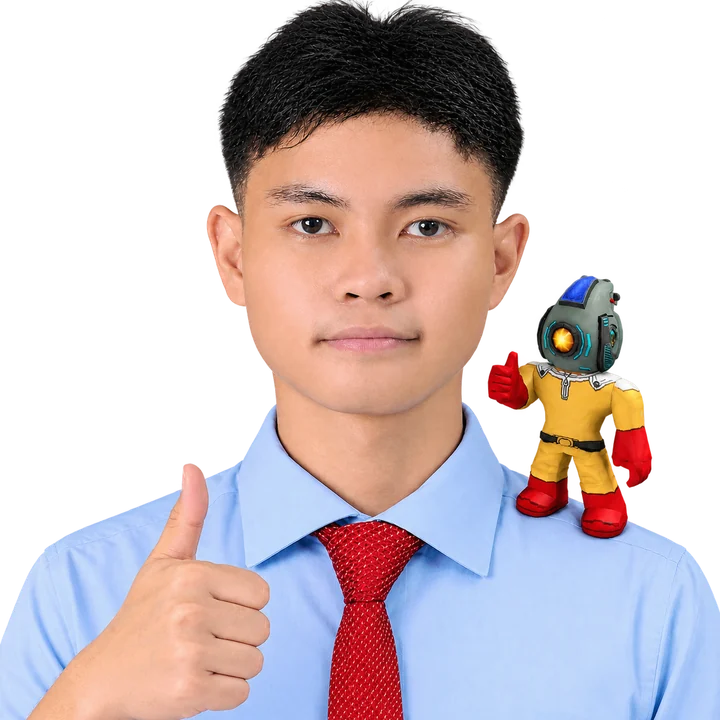
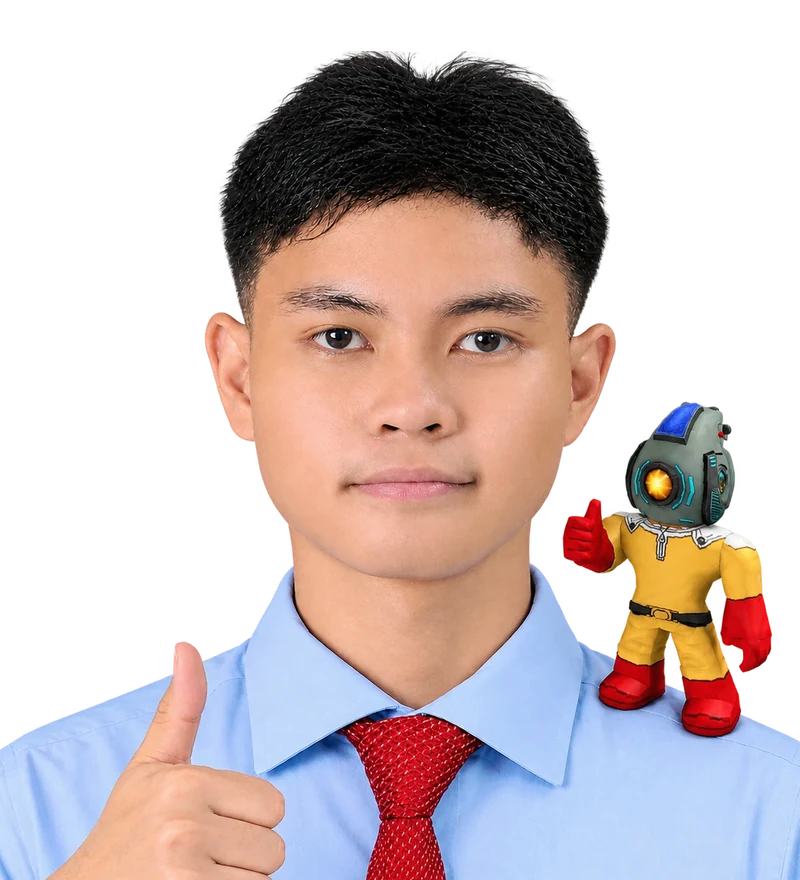
Hero: match the reference card with the new portrait photo
Sharper 800x880 cut-out cropped tighter like the mockup, narrower card
aligned to the top of the hero, and a project count beside Work.

diff --git a/src/styles.css b/src/styles.css
@@ -207,13 +207,14 @@ sup { font-size: .45em; vertical-align: super; line-height: 0; }
   transition: transform .3s var(--ease);
 }
 .site-nav a:hover::after { transform: scaleX(1); }
+.nav-count { color: var(--muted); }
 .header-cta { min-width: 8.75rem; justify-content: flex-start; }
 
 /* ---------- Hero ---------- */
 .hero {
   display: grid;
-  grid-template-columns: 1fr minmax(15rem, 18rem);
-  align-items: end;
+  grid-template-columns: 1fr minmax(14rem, 15rem);
+  align-items: start;                          /* card top lines up with the hero label */
   gap: 2rem;
   padding-top: 1.8rem;
   padding-bottom: 3rem;
@@ -240,10 +241,11 @@ sup { font-size: .45em; vertical-align: super; line-height: 0; }
   border-radius: 2px;
   justify-self: end;
   width: 100%;
+  margin-top: -.25rem;                         /* sits a touch above the label, like the mockup */
 }
 .portrait-frame {
   margin: 0 0 .85rem;
-  aspect-ratio: 1 / 1.05;                     /* slightly taller than square, like the mockup */
+  aspect-ratio: 1 / 1.1;                      /* taller than square, like the mockup */
   overflow: hidden;
   /* dark studio backdrop behind the transparent cut-out photo */
   background:
@@ -251,7 +253,7 @@ sup { font-size: .45em; vertical-align: super; line-height: 0; }
 }
 .portrait-frame img {
   display: block; width: 100%; height: 100%;
-  object-fit: cover; object-position: 50% 20%; /* keep the face and shoulder figure in frame */
+  object-fit: cover; object-position: 50% 0;   /* photo is pre-cropped 1 : 1.1 to fill the frame */
   filter: saturate(.92) contrast(1.03);
   transition: transform .8s var(--ease), filter .8s var(--ease);
 }
@@ -263,7 +265,7 @@ sup { font-size: .45em; vertical-align: super; line-height: 0; }
 }
 .portrait-status {
   display: flex; align-items: center; gap: .45rem;
-  color: var(--accent-text); font-size: .8125rem;
+  color: var(--accent-text); font-size: .75rem;
 }
 .portrait-status .status-dot { width: .5rem; height: .5rem; flex: none; }
 .status-dot {

diff --git a/src/index.html b/src/index.html
@@ -39,7 +39,7 @@
       <a class="logo" href="#top" aria-label="KPR, back to top"><span class="logo-mark" aria-hidden="true"></span></a>
       <p class="label header-tagline">Digital design / Development</p>
       <nav class="site-nav" aria-label="Main">
-        <a href="#work">Work</a>
+        <a href="#work">Work <span class="nav-count">[05]</span></a>
         <a href="#info">Info</a>
       </nav>
       <div class="header-tools">
@@ -76,7 +76,7 @@
 
         <aside class="portrait-card reveal" aria-label="About Ken">
           <figure class="portrait-frame">
-            <img src="assets/ken-portrait.webp" width="720" height="720" alt="Portrait of Ken Patrick Ranis giving a thumbs up, with a small robot figure on his shoulder" fetchpriority="high" decoding="async">
+            <img src="assets/ken-portrait.webp" width="800" height="880" alt="Portrait of Ken Patrick Ranis giving a thumbs up, with a small robot figure on his shoulder" fetchpriority="high" decoding="async">
           </figure>
           <p class="label portrait-caption">Software developer · 2026</p>
           <p class="portrait-name">Ken / Designer &amp; Builder</p>
